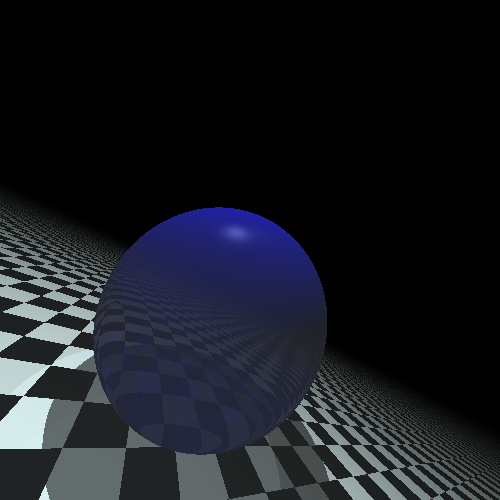
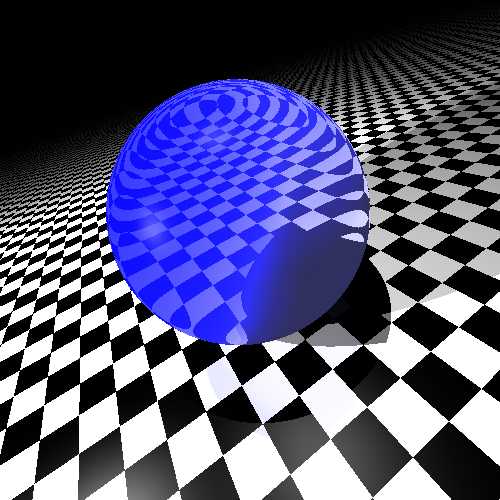
redo transmission, blend in a new way

diff --git a/src/space.cc b/src/space.cc
@@ -1,5 +1,5 @@
 // File: space.cc
-// Date: Mon Jun 17 11:04:58 2013 +0800
+// Date: Mon Jun 17 13:25:43 2013 +0800
 // Author: Yuxin Wu <ppwwyyxxc@gmail.com>
 
 #include <limits>
@@ -45,7 +45,7 @@ Color Space::trace(const Ray& ray, real_t dist, int depth) {
 	// phong model
 	// http://en.wikipedia.org/wiki/Phong_reflection_model
 	// ambient
-	Color ret = surf->ambient * ambient;
+	Color ret = ambient * (surf->diffuse + Color::WHITE) * surf->ambient * 0.5;
 
 	for (const shared_ptr<Light> &i : lights) {
 		Vec lm = (i->src - inter_point).get_normalized();
@@ -55,8 +55,7 @@ Color Space::trace(const Ray& ray, real_t dist, int depth) {
 		// shadow if not visible to this light
 		// go foward a little
 		if (find_any(Ray(inter_point + lm * EPS, lm), dist_to_light)) {
-			if (lmn > 0)
-				ret += surf->diffuse * ambient * REFL_DECAY;
+			// if (lmn > 0) ret += surf->diffuse * ambient * REFL_DECAY;
 			continue;
 		}
 
@@ -64,7 +63,7 @@ Color Space::trace(const Ray& ray, real_t dist, int depth) {
 
 		// diffuse
 		if (lmn > 0)
-			ret += surf->diffuse * lmn * i->color * i->intensity * damping;		// add beer
+			ret += surf->diffuse * i->color * (i->intensity * damping * lmn);		// add beer
 
 		// specular
 		real_t rmv = -norm.reflection(lm).dot(ray.dir);
@@ -78,31 +77,28 @@ Color Space::trace(const Ray& ray, real_t dist, int depth) {
 
 	// reflected ray : go back a little, same density
 	m_assert(fabs(ray.dir.sqr() - 1) < EPS);
-	if (surf->ambient.get_max() < 1 - EPS) {		// do reflection if ambient is small
+	if (surf->ambient < 1 - EPS) {		// do reflection if ambient is small
 		Ray new_ray(inter_point - ray.dir * EPS, -norm.reflection(ray.dir), ray.density);
+		m_assert(fabs((-norm.reflection(ray.dir)).sqr() - 1) < EPS);
 
 		new_ray.debug = ray.debug;
 		real_t lmn = (new_ray.dir.dot(norm));
 		Color refl = trace(new_ray, dist, depth + 1);
-		if (refl.get_max() > 0.02)
-			ret += refl * surf->diffuse * lmn * REFL_DECAY * surf->shininess;
+		ret += refl * surf->diffuse * (lmn * REFL_DECAY * (1 - surf->ambient) * surf->shininess);
 	}
 
 
 	// transmission
-	/*
-	 *if (surf->transparency > 0) {
-	 *    Vec tr_dir = norm.transmission(ray.dir, density / ray.density);
-	 *    if (isnormal(tr_dir.x)) { // have transmission
-	 *        // transmission ray : go forward a little
-	 *        new_ray = Ray(inter_point + ray.dir * EPS, tr_dir, density);
-	 *        new_ray.debug = ray.debug;
-	 *        Color transm = trace(new_ray, dist, depth + 1);
-	 *        ret += transm * surf->transparency;
-	 *        ret *= TRANSM_BLEND_FACTOR;
-	 *    }
-	 *}
-	 */
+	if (surf->transparency > 0) {
+		Vec tr_dir = norm.transmission(ray.dir, density / ray.density);
+		if (isnormal(tr_dir.x)) { // have transmission
+			// transmission ray : go forward a little
+			Ray new_ray(inter_point + ray.dir * EPS, tr_dir, density);
+			new_ray.debug = ray.debug;
+			Color transm = trace(new_ray, dist, depth + 1);
+			ret += transm * surf->transparency;
+		}
+	}
 
 	ret.normalize();
 	return ret;

diff --git a/src/main.cc b/src/main.cc
@@ -1,5 +1,5 @@
 // File: main.cc
-// Date: Mon Jun 17 11:09:30 2013 +0800
+// Date: Mon Jun 17 13:28:15 2013 +0800
 // Author: Yuxin Wu <ppwwyyxxc@gmail.com>
 #include "space.hh"
 #include "renderable/plane.hh"
@@ -23,16 +23,13 @@ using namespace std;
  */
 
 int main(int argc, char* argv[]) {
-	/*
-	 *blxl();
-	 *return 0;
-	 */
 	int w, h;
 	w = h = 500;
 	Space s;
-	s.add_light(Light(Vec(0, -20, 0), Color(0.9, 1, 1), 1.5));
-	s.add_light(Light(Vec(0, -10, 8), Color::WHITE, 1.2));
-	s.add_light(Light(Vec(0, -2, -20), Color::WHITE, 0.5));
+	s.add_light(Light(Vec(0, -20, 10), Color::WHITE, 2));
+	s.add_light(Light(Vec(0, -10, 8), Color::WHITE, 2.2));
+	s.add_light(Light(Vec(0, -2, -20), Color::WHITE, 1.5));
+	s.add_light(Light(Vec(0, 0, 20), Color::WHITE, 1.5));
 
 
 	shared_ptr<Texture> t1(new GridTexture(GridTexture::BLACK_WHITE));
@@ -44,15 +41,20 @@ int main(int argc, char* argv[]) {
 	mesh.set_texture(tred);
 	mesh.finish_add();
 	cout << mesh.get_aabb() << endl;
-	s.add_obj(new Mesh(mesh));
+	/*
+	 *s.add_obj(new Mesh(mesh));
+	 */
 	/*
 	 *s.add_obj(new Face(face));
 	 */
 	s.add_obj(new Plane(plane1));
 	Sphere sphere(PureSphere(Vec(1, 0, 5), 0.5), t2);
+	/*
+	 *Sphere sphere(PureSphere::TestSphere, t2);
+	 */
 	s.add_obj(new Sphere(sphere));
 
-	View v(make_shared<Space>(s), Vec(0.2, -5, 5), Vec(0, 0, 5), 10, Geometry(w, h));
+	View v(make_shared<Space>(s), Vec(0.2, -10, 5), Vec(0, 0, 2), 20, Geometry(w, h));
 	CVViewer viewer(v);
 	viewer.view();
 }

diff --git a/src/surface.cc b/src/surface.cc
@@ -1,15 +1,15 @@
 // File: surface.cc
-// Date: Mon Jun 17 11:09:30 2013 +0800
+// Date: Mon Jun 17 13:23:12 2013 +0800
 // Author: Yuxin Wu <ppwwyyxxc@gmail.com>
 
 #include "material/surface.hh"
 using namespace std;
 
 const Surface
-	Surface::WHITE_REFL(0, 20, Color::WHITE, Color::WHITE, Color::WHITE * DEFAULT_SPECULAR),
-	Surface::BLACK_REFL(0, 20, Color::BLACK, Color::WHITE, Color::WHITE * DEFAULT_SPECULAR),
-	Surface::BLUE_REFL(0.2, 50, Color::BLUE, Color::WHITE, Color::WHITE * DEFAULT_SPECULAR),
-	Surface::RED(0, 200, Color::RED, Color::WHITE, Color::WHITE * DEFAULT_SPECULAR);
+	Surface::WHITE_REFL(0, 20, 0, Color::WHITE, Color::WHITE * DEFAULT_SPECULAR),
+	Surface::BLACK_REFL(0, 20, 0, Color::BLACK, Color::WHITE * DEFAULT_SPECULAR),
+	Surface::BLUE_REFL(1, 50, 1, Color::BLUE, Color::WHITE * DEFAULT_SPECULAR),
+	Surface::RED(2, 20, 1, Color::RED, Color::WHITE * DEFAULT_SPECULAR);
 
 
 
